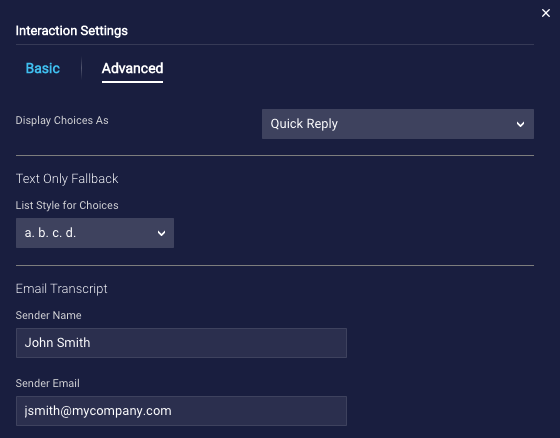
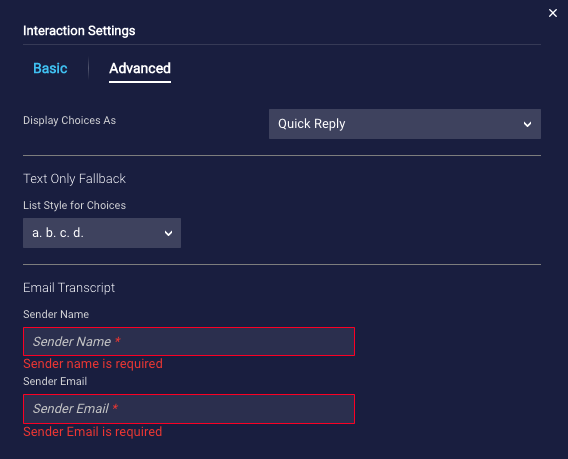
Final changes to PCS email transcript and  ty msg

Changed region(s): [[0.0304, 0.2374, 0.9714, 0.9795], [0.0304, 0.0594, 0.9411, 0.2078], [0.0304, 0.2374, 0.2125, 0.2968]]

diff --git a/pages/Documents/ConversationalAI/ConversationBuilder/Bots/post-conversation-survey-bots.md b/pages/Documents/ConversationalAI/ConversationBuilder/Bots/post-conversation-survey-bots.md
@@ -239,10 +239,11 @@ First, in the bot's [Bot Settings](conversation-builder-bots-bot-basics.html#con
 Second, configure the Email Transcript interaction:
 
 * Change the message text and the label for the Decline button as desired.
-* Configure the interaction's basic and advanced settings. Most notably, specify the **Sender Name** and **Sender Email**. By default, these are set using the user details of the bot developer who added the interaction to the bot.
-* Keep the Next Action as "Close Dialog" (which is the default) to close the conversation if appropriate.
+* Configure the interaction's basic and advanced settings. Most notably, specify the **Sender Name** and **Sender Email**. These are the name and email address from whom the consumer receives the email.
 
-<img class="fancyimage" style="width:600px" src="img/ConvoBuilder/surveyBot_email2.png">
+    <img class="fancyimage" style="width:600px" src="img/ConvoBuilder/surveyBot_email2.png">
+
+* Keep the Next Action as "Close Dialog" (which is the default) to close the conversation if appropriate.
 
 Note the following:
 
@@ -267,7 +268,7 @@ Second, configure the Thank You Message interaction:
 
 * Enter the Thank You message.
 * Configure the interaction's basic and advanced settings.
-* Set the Next Action to "Close Dialog" to close the conversation if appropriate.
+* Keep the Next Action as "Close Dialog" (which is the default) to close the conversation if appropriate.
 
 The Thank You Message interaction can precede or follow an Email Transcript interaction (discussed above), if used. However, the two must be last in the dialog flow. You can [move](conversation-builder-interactions-interaction-basics.html#move-an-interaction) them to reorder them, but this constraint is enforced.
 
